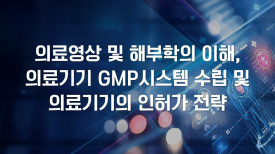
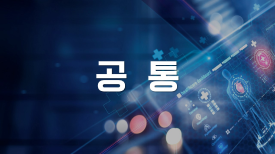
매치업 썸네일,링크 추가

Changed region(s): [[0.0873, 0.2857, 0.9309, 0.7273]]

diff --git a/lms/templates/matchup_course.html b/lms/templates/matchup_course.html
@@ -622,7 +622,7 @@ ${("")}
                         <h2>지능형농장(스마트팜)</h2>
                         <ul class="list">
                             <li class="list__card">
-                                <a href="#category-7" onclick="alert('3월 개강 예정')"
+                                <a href="http://www.kmooc.kr/courses/course-v1:MA_YONAM+MATCHUP_YC01+2023_T1/about" tartget="_blank"
                                    title="스마트팜 시설에너지관리 전문가 기초과정">
                                     <div class="list__card-content">
                                         <div class="list__thumbnail">
@@ -642,7 +642,7 @@ ${("")}
                                         src="${STATIC_URL}/new_index/images/matchup-img/match-label.svg"></label>
                             </li>
                             <li class="list__card">
-                                <a href="#category-7" onclick="alert('3월 개강 예정')"
+                                <a href="http://www.kmooc.kr/courses/course-v1:MA_YONAM+MATCHUP_YC02+2023_T1/about" tartget="_blank"
                                    title="스마트팜 작물재배 전문가 기초과정">
                                     <div class="list__card-content">
                                         <div class="list__thumbnail">
@@ -662,7 +662,7 @@ ${("")}
                                         src="${STATIC_URL}/new_index/images/matchup-img/match-label.svg"></label>
                             </li>
                             <li class="list__card">
-                                <a href="#category-7" onclick="alert('3월 개강 예정')"
+                                <a href="http://www.kmooc.kr/courses/course-v1:MA_YONAM+MATCHUP_YC03+2023_T1/about" tartget="_blank"
                                    title="스마트팜 작물보호 전문가 기초과정">
                                     <div class="list__card-content">
                                         <div class="list__thumbnail">
@@ -682,7 +682,7 @@ ${("")}
                                         src="${STATIC_URL}/new_index/images/matchup-img/match-label.svg"></label>
                             </li>
                             <li class="list__card">
-                                <a href="#category-7" onclick="alert('3월 개강 예정')"
+                                <a href="http://www.kmooc.kr/courses/course-v1:MA_YONAM+MATCHUP_YC04+2023_T1/about" tartget="_blank"
                                    title="스마트팜 데이터관리 전문가 기초과정">
                                     <div class="list__card-content">
                                         <div class="list__thumbnail">
